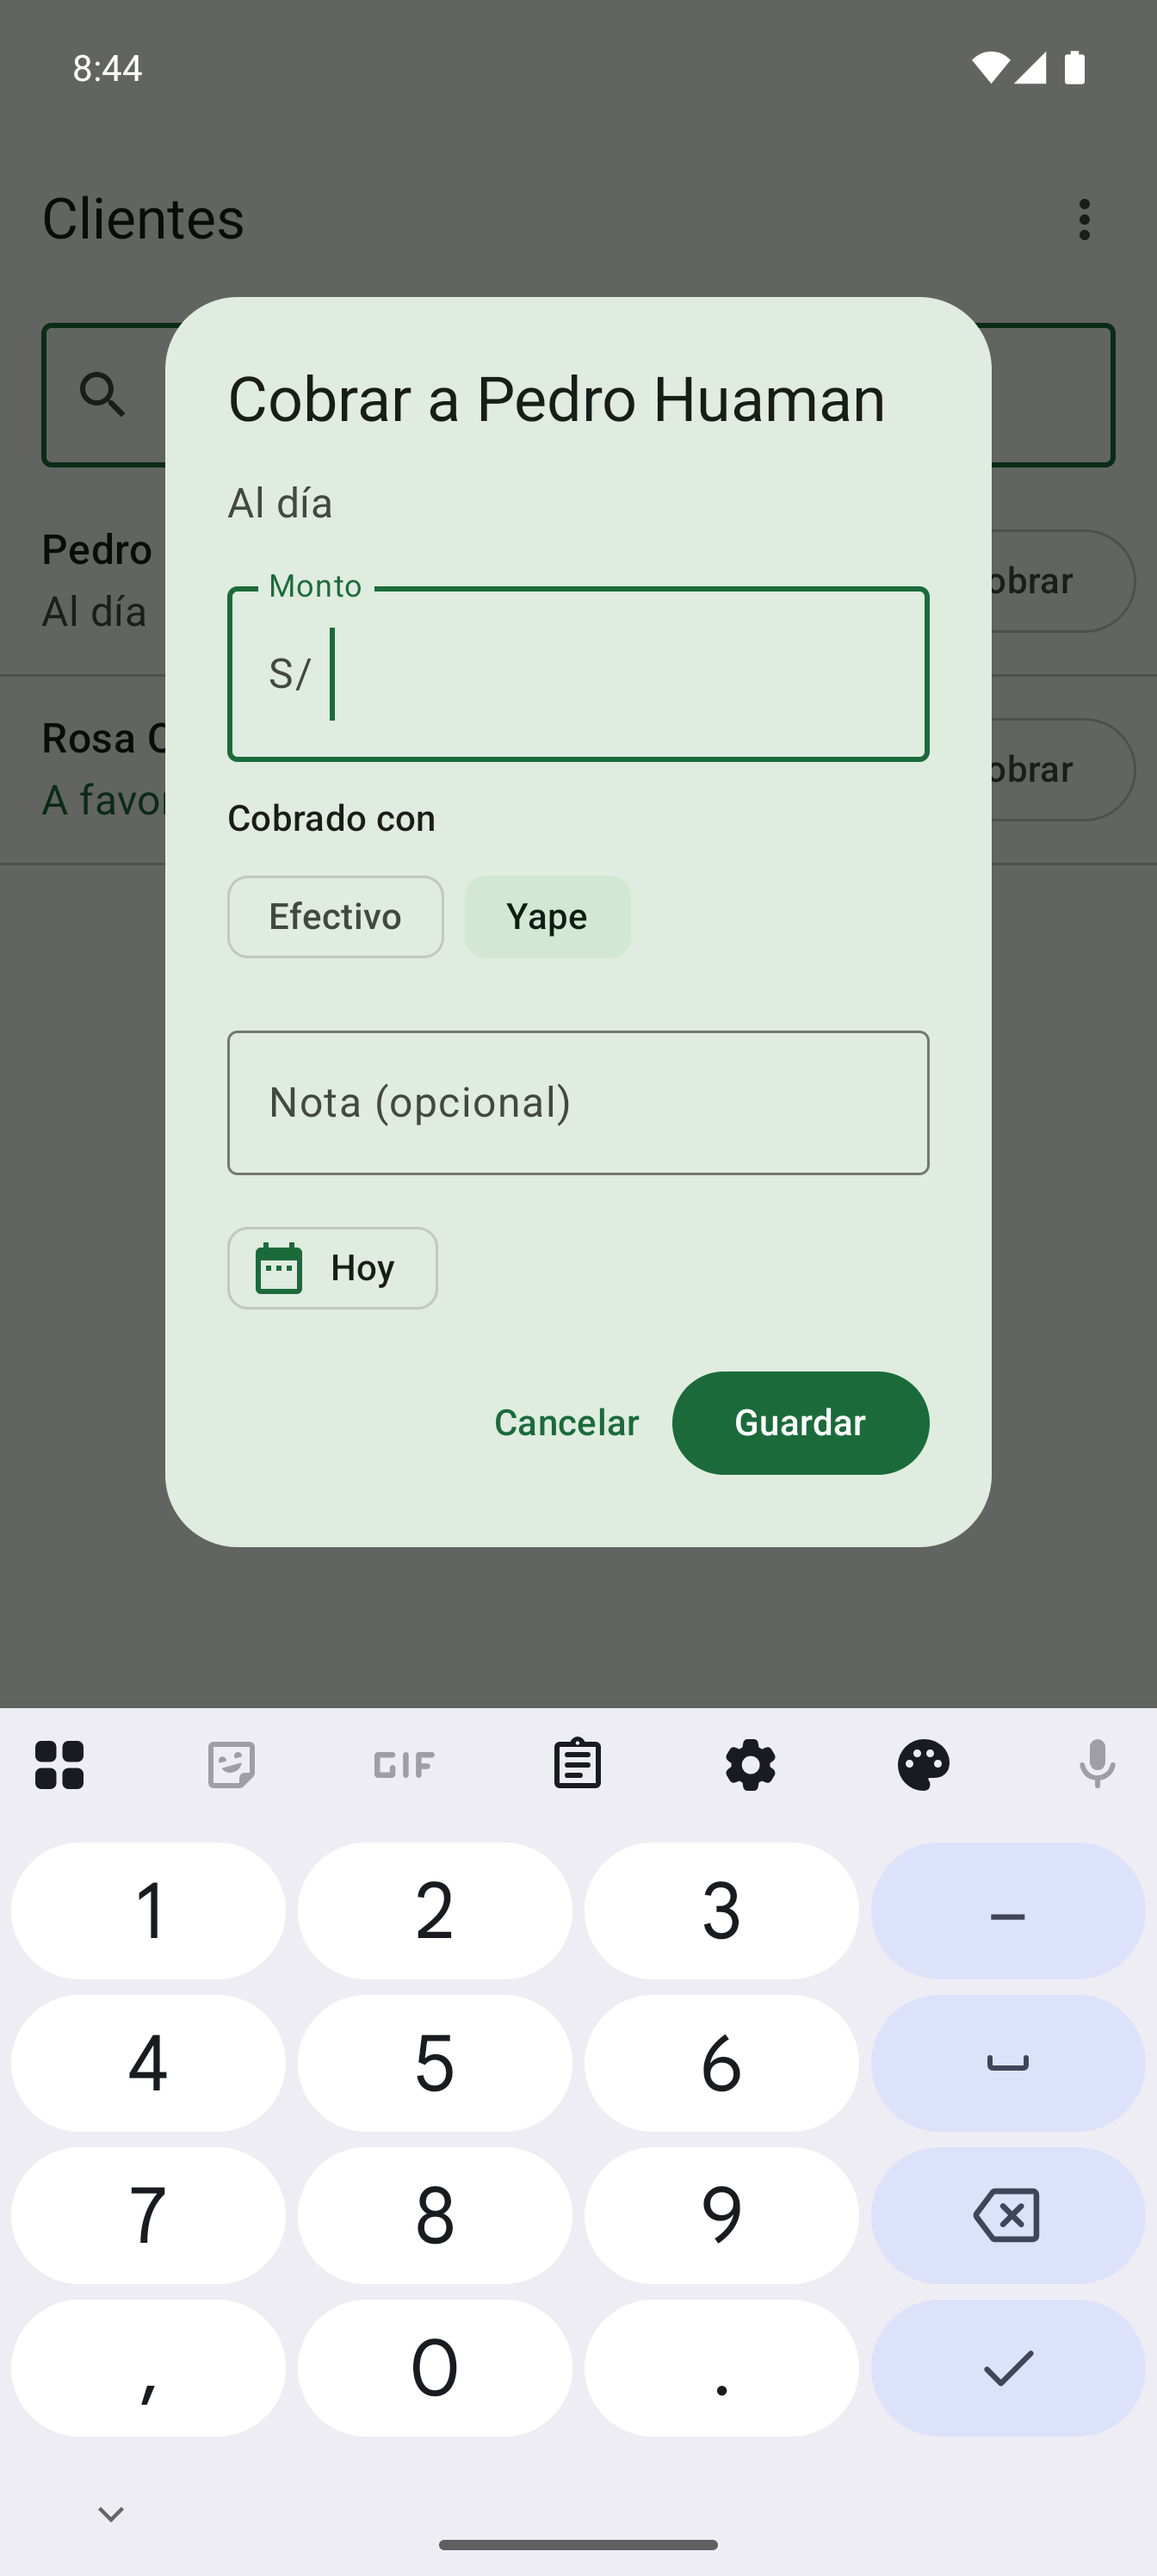
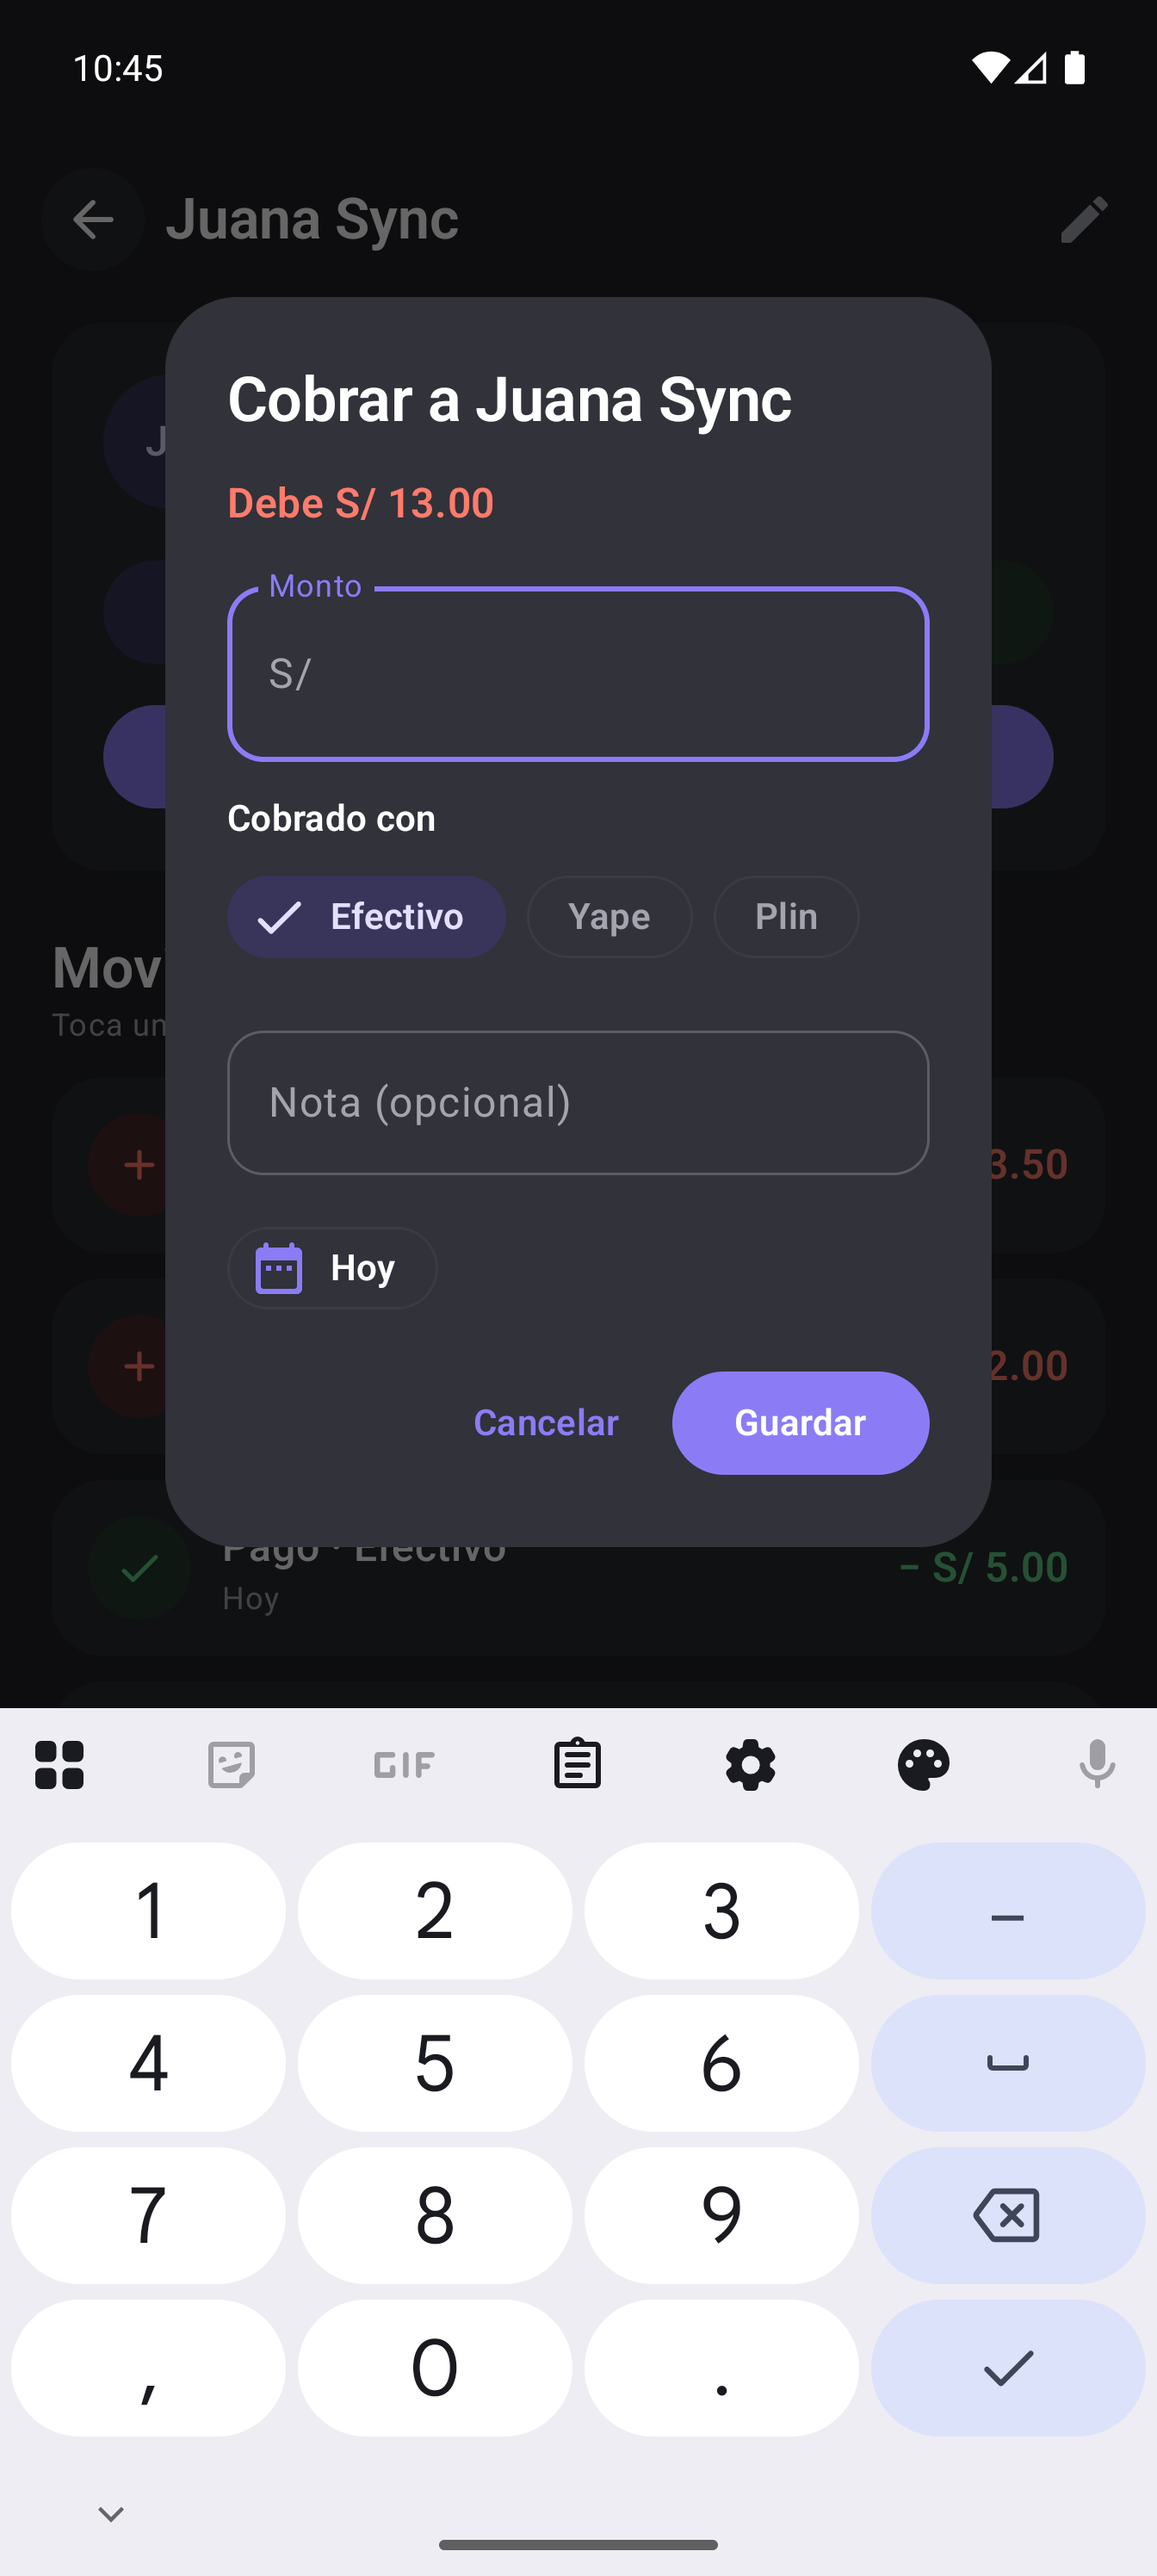
docs: registrar el rediseño oscuro en README, CHANGELOG y roadmap

diff --git a/README.md b/README.md
@@ -12,17 +12,15 @@ Es una app Android nativa con los datos en el teléfono (Room como fuente de ver
 ## Capturas
 
 <p>
-  <img src="docs/capturas/lista.png" alt="Lista de clientes con su saldo, lo pendiente por cobrar y los botones Fiar y Cobrar" width="240">
-  <img src="docs/capturas/movimientos-dialogo.png" alt="Registro de un fiado con el monto enfocado" width="240">
+  <img src="docs/capturas/lista.png" alt="Lista de clientes con lo pendiente por cobrar, el buscador y la barra inferior flotante" width="240">
+  <img src="docs/capturas/historial.png" alt="Historial de un cliente con su saldo, Fiar, Cobrar y Recordar por WhatsApp" width="240">
   <img src="docs/capturas/cobro-metodos.png" alt="Cobro con el método preseleccionado" width="240">
-  <img src="docs/capturas/historial.png" alt="Historial de un cliente con un pago anulado" width="240">
-  <img src="docs/capturas/resumen.png" alt="Resumen de hoy y del mes con lo cobrado por método" width="240">
+  <img src="docs/capturas/resumen.png" alt="Resumen con el porcentaje cobrado del mes y lo cobrado por método" width="240">
+  <img src="docs/capturas/cobros.png" alt="Pantalla Cobros con los métodos y el mensaje de cobro" width="240">
   <img src="docs/capturas/metodos-lista.png" alt="Métodos de cobro propios" width="240">
-  <img src="docs/capturas/cuenta-ceder.png" alt="Aviso al iniciar sesión con la cuenta abierta en otro teléfono" width="240">
-  <img src="docs/capturas/respaldo-pendientes.png" alt="Cuenta con dos cambios por respaldar sin conexión" width="240">
-  <img src="docs/capturas/respaldo-cerrar-sesion.png" alt="Aviso al cerrar sesión con cambios sin respaldar" width="240">
-  <img src="docs/capturas/recordatorio-historial.png" alt="Historial de un cliente con el botón Recordar por WhatsApp" width="240">
   <img src="docs/capturas/mensaje-de-cobro.png" alt="Plantilla del mensaje de cobro con su vista previa" width="240">
+  <img src="docs/capturas/cuenta.png" alt="Cuenta con el estado del respaldo" width="240">
+  <img src="docs/capturas/cuenta-ceder.png" alt="Aviso al iniciar sesión con la cuenta abierta en otro teléfono" width="240">
 </p>
 
 ## Estado
@@ -40,6 +38,7 @@ Es una app Android nativa con los datos en el teléfono (Room como fuente de ver
 | Sincronización: restauración reanudable al iniciar sesión, unida con la libreta local | Listo |
 | Sincronización: estado del respaldo y avisos al cerrar sesión o ceder el teléfono | Listo |
 | Recordatorio por WhatsApp con un mensaje de cobro editable | Listo |
+| Diseño oscuro con tarjetas y barra inferior flotante | Listo |
 | Bloqueo con huella | Pendiente |
 
 ## Requisitos

diff --git a/CHANGELOG.md b/CHANGELOG.md
@@ -10,6 +10,13 @@ El formato sigue [Keep a Changelog](https://keepachangelog.com/es-ES/1.1.0/) y e
 
 - Recordatorio de cobro por WhatsApp desde el historial de un cliente que debe: abre WhatsApp con el mensaje escrito. Si el cliente no tiene celular, ofrece agregarlo.
 - Mensaje de cobro editable desde el menú, con `{cliente}`, `{saldo}` y `{negocio}`, vista previa y opción de restablecer. Por defecto saluda con el nombre del negocio; sin cuenta, esa frase se omite. Se guarda solo en el teléfono.
+- Barra inferior flotante con Clientes, Resumen, Cobros y Cuenta, y un botón central para crear un cliente. La pantalla Cobros reúne los métodos de cobro y el mensaje de cobro.
+- Resumen con un anillo del porcentaje cobrado de lo fiado en el mes y barras con lo cobrado por cada método.
+
+### Cambiado
+
+- Nuevo diseño oscuro: fondo gris carbón, tarjetas redondeadas, acento lila, verde para lo cobrado y lo que está al día y coral para lo que se debe. La app ya no cambia de tema según el teléfono.
+- El menú de la lista de clientes y su botón «Nuevo cliente» dan paso a la barra inferior.
 
 ## [0.4.0] - 2026-11-20
 

diff --git a/docs/roadmap.md b/docs/roadmap.md
@@ -91,6 +91,7 @@ Cada entrega indica su repositorio: **M** (mobile) o **A** (API).
 | Rama | Repo | Entrega |
 |---|---|---|
 | `feat/recordatorio-whatsapp` | M | Mensaje de cobro con el monto ya escrito. |
+| `feat/rediseno-oscuro` | M | Diseño oscuro con tarjetas, gráficos en el resumen y barra inferior flotante, sin cambiar la lógica. |
 | `feat/bloqueo-biometrico` | M | Bloqueo al abrir y al volver de segundo plano. |
 
 ### Fase 5: Publicación → `v1.0.0` en ambos
